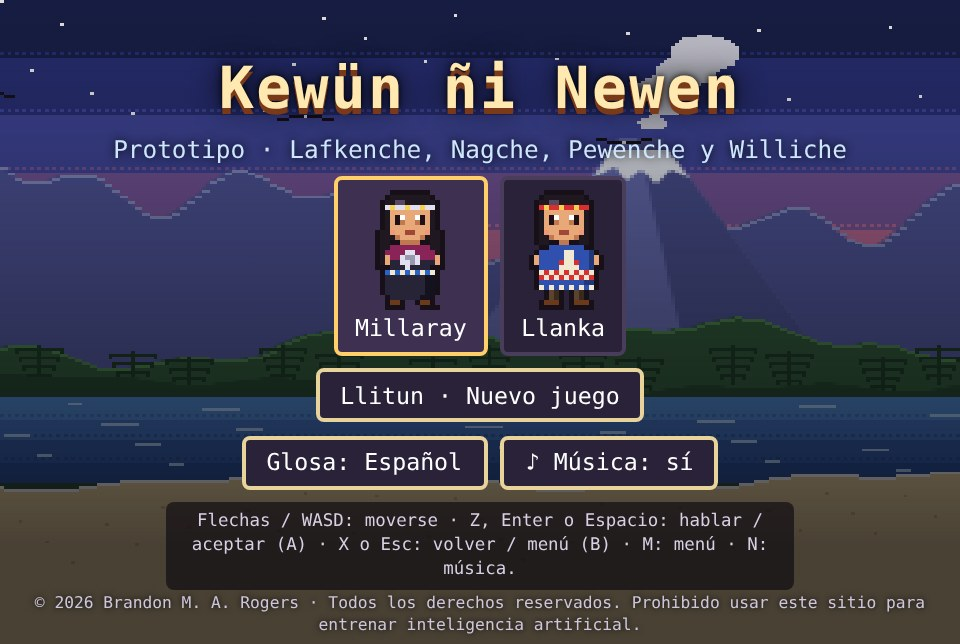
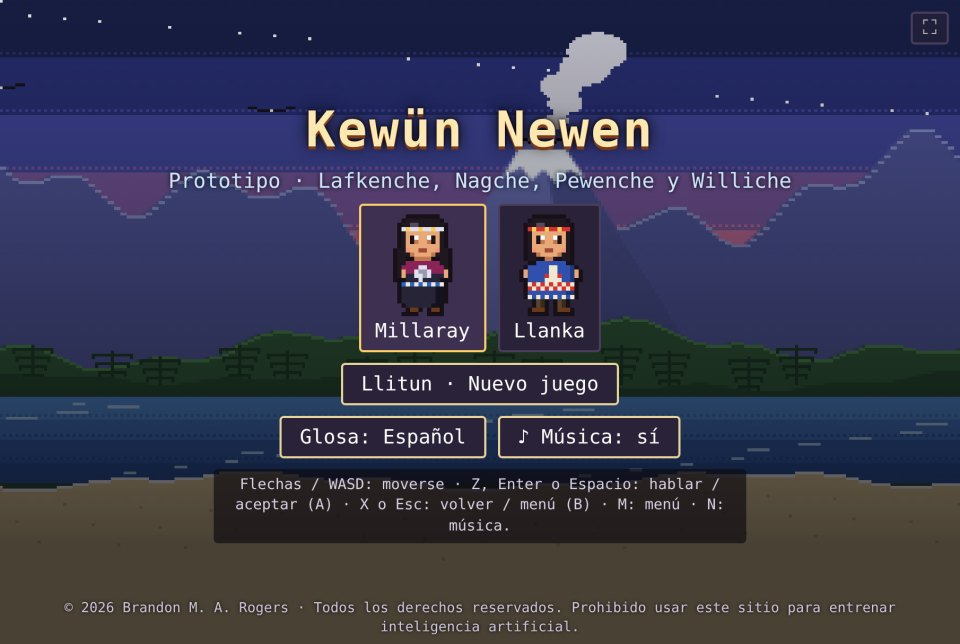
About page: new title screenshot with the Kewün Newen name, a section on the secret level (Ngoyün mapu) with its own screenshot, kultrun-metal boss themes, the Kelluaeyu credits film, and an eighth stage on the path
Claude-Session: https://claude.ai/code/session_01HTUZe9QnhKfmVdpEdFr6Jn

diff --git a/acerca/index.html b/acerca/index.html
@@ -69,7 +69,7 @@ html[data-l="en"] .es, html:not([data-l="en"]) .en{display:none}
 .feat ul b{color:var(--ink)}
 .mapu{font-style:italic;color:var(--bright)}
 /* regions */
-.path{display:grid;grid-template-columns:repeat(7,1fr);gap:8px;margin-top:22px}
+.path{display:grid;grid-template-columns:repeat(8,1fr);gap:8px;margin-top:22px}
 .stage{background:var(--panel);border:1.5px solid var(--panel2);border-radius:8px;padding:12px 10px;display:flex;flex-direction:column;gap:4px;min-width:0}
 .stage b{font-size:.95rem}
 .stage span{font-size:.82rem;color:var(--muted)}
@@ -173,7 +173,7 @@ footer{padding-block:28px 40px;color:var(--muted);font-size:.9rem;display:flex;f
 
     <div style="margin-top:clamp(40px,6vw,64px)">
       <div class="feat">
-        <div class="shot"><img src="img/title.jpg" alt="Pantalla de inicio: Millaray y Llanka frente al mar, bajo el volcán" width="1024" height="896" loading="lazy"></div>
+        <div class="shot"><img src="img/title.jpg" alt="Pantalla de inicio de Kewün Newen: Millaray y Llanka frente al mar, bajo el volcán" width="960" height="644" loading="lazy"></div>
         <div class="copy">
           <h3><span class="es">Órdenes que se arman, no que se aprietan</span><span class="en">Orders you build, not buttons you press</span></h3>
           <p class="muted"><span class="es">En cada combate eliges una raíz verbal y la conjugas: la terminación decide a quién va la orden (a uno, a dos o a todos) y <span class="mapu">-kil-</span> la vuelve negativa. <span class="mapu">Amutunge</span>, «¡vete!», espanta a un enemigo; <span class="mapu">amutukilmün</span>, «¡no se vayan!», es otra historia. El juego enseña catorce raíces, y cada jefe exige usarlas con cabeza.</span><span class="en">In every battle you pick a verb root and conjugate it: the ending decides who the order goes to (one, two or everyone), and <span class="mapu">-kil-</span> makes it negative. <span class="mapu">Amutunge</span>, “go away!”, drives an enemy off; <span class="mapu">amutukilmün</span>, “don't you all leave!”, is a different story. The game teaches fourteen roots, and every boss makes you use them wisely.</span></p>
@@ -191,6 +191,7 @@ footer{padding-block:28px 40px;color:var(--muted);font-size:.9rem;display:flex;f
           <p class="muted"><span class="es">Cinco regiones, cada una con sus colores, sus árboles, su música propia y su ngen dormido: la costa lafkenche, los valles nagche, la cordillera pewenche con sus pewen, el sur williche y la pampa del Puelmapu. En el camino esperan criaturas del folclor mapuche: el chonchon, el witranalwe, el cherufe, el Kaleuche, el walichu.</span><span class="en">Five regions, each with its own colours, trees, music and sleeping ngen: the Lafkenche coast, the Nagche valleys, the Pewenche cordillera with its pewen, the Williche south and the Puelmapu pampa. Along the way wait creatures from Mapuche folklore: the chonchon, the witranalwe, the cherufe, the Kaleuche, the walichu.</span></p>
           <ul>
             <li><span class="es"><b>El trariwe antiguo:</b> cada jefe de región suelta un trokiñ; completo, abre el camino al final.</span><span class="en"><b>The ancient trariwe:</b> each region's boss drops a trokiñ; complete, it opens the way to the finale.</span></li>
+            <li><span class="es"><b>Kultrun y metal:</b> cada jefe pelea con su propio tema, guitarras pesadas sobre el pulso del kultrun, con kaskawilla, trutruka y pifilka.</span><span class="en"><b>Kultrun and metal:</b> every boss fights to its own theme, heavy guitars over the pulse of the kultrun, with kaskawilla, trutruka and pifilka.</span></li>
           </ul>
         </div>
       </div>
@@ -215,7 +216,7 @@ footer{padding-block:28px 40px;color:var(--muted);font-size:.9rem;display:flex;f
         <div class="shot"><img src="img/boss.jpg" alt="Un jefe secreto de sal en el salitral, rodeado de barreras de luz" width="960" height="644" loading="lazy"></div>
         <div class="copy">
           <h3><span class="es">Y más allá de la niebla...</span><span class="en">And beyond the fog...</span></h3>
-          <p class="muted"><span class="es">Despertados los cinco ngen, queda lo que la niebla esconde: Ti Fütra Ngoymatulfe, el gran olvido. Jefes secretos que se encuentran explorando, barreras de luz que solo la gramática rompe, un final en varias etapas y, para quien busca de verdad, regiones enteras que no aparecen en ningún mapa. No contamos más. Y al terminar, el modo <span class="mapu">weichafe</span>: vuelves a empezar con tu kimün y tus cosas, contra wekufü que crecen contigo y pruebas sin pistas.</span><span class="en">Once the five ngen are awake, what the fog hides remains: Ti Fütra Ngoymatulfe, the great forgetting. Secret bosses found by exploring, light barriers only grammar can break, a multi-stage finale and, for those who truly search, whole regions that appear on no map. We'll say no more. And once you finish, <span class="mapu">weichafe</span> mode: start again with your kimün and your things, against wekufü that grow with you and trials with no hints.</span></p>
+          <p class="muted"><span class="es">Despertados los cinco ngen, queda lo que la niebla esconde: Ti Fütra Ngoymatulfe, el gran olvido. Jefes secretos que se encuentran explorando, barreras de luz que solo la gramática rompe, un final en varias etapas que cierra con su propia película, <span class="mapu">Kelluaeyu</span>, y, para quien busca de verdad, regiones enteras que no aparecen en ningún mapa. No contamos más. Y al terminar, el modo <span class="mapu">weichafe</span>: vuelves a empezar con tu kimün y tus cosas, contra wekufü que crecen contigo y pruebas sin pistas.</span><span class="en">Once the five ngen are awake, what the fog hides remains: Ti Fütra Ngoymatulfe, the great forgetting. Secret bosses found by exploring, light barriers only grammar can break, a multi-stage finale that closes with its own film, <span class="mapu">Kelluaeyu</span>, and, for those who truly search, whole regions that appear on no map. We'll say no more. And once you finish, <span class="mapu">weichafe</span> mode: start again with your kimün and your things, against wekufü that grow with you and trials with no hints.</span></p>
         </div>
       </div>
       <div class="feat">
@@ -230,6 +231,13 @@ footer{padding-block:28px 40px;color:var(--muted);font-size:.9rem;display:flex;f
           </ul>
         </div>
       </div>
+      <div class="feat">
+        <div class="shot"><img src="img/olvido.jpg" alt="Millaray en el camino del mar convertido en gris por el olvido; alrededor de una piedra tallada el color vuelve a aparecer" width="960" height="644" loading="lazy"></div>
+        <div class="copy">
+          <h3><span class="es">Y, al final, lo que olvidaste</span><span class="en">And, at the very end, what you forgot</span></h3>
+          <p class="muted"><span class="es">Quien encuentre todos los secretos, hasta el último, verá algo raro en el primer camino del juego: su sombra ya no le sigue los pasos. Detrás de ella hay un lugar gris donde va a parar todo lo que se olvida, y que solo recupera el color palabra por palabra. Al fondo espera la sombra, que conoce cada respuesta que fallaste en el viaje y te las va a preguntar todas. Quien la vence se gana un título que no se compra: <span class="mapu">kimche</span>.</span><span class="en">Whoever finds every secret, down to the last one, will notice something strange on the game's very first road: their shadow no longer follows them. Behind it lies a grey place where everything forgotten ends up, and which only gets its colour back word by word. At the far end waits the shadow, which knows every answer you missed on the journey and will ask you all of them. Whoever beats it earns a title that cannot be bought: <span class="mapu">kimche</span>.</span></p>
+        </div>
+      </div>
     </div>
 
     <div class="path" aria-label="Regiones">
@@ -240,6 +248,7 @@ footer{padding-block:28px 40px;color:var(--muted);font-size:.9rem;display:flex;f
       <div class="stage"><b>Puelmapu</b><span class="es">la pampa</span><span class="en">the pampa</span></div>
       <div class="stage"><b>¿...?</b><span class="es">la niebla</span><span class="en">the fog</span></div>
       <div class="stage"><b>Waria</b><span class="es">Santiago</span><span class="en">Santiago</span></div>
+      <div class="stage"><b>¿...?</b><span class="es">lo olvidado</span><span class="en">what was forgotten</span></div>
     </div>
   </section>
 </div>
